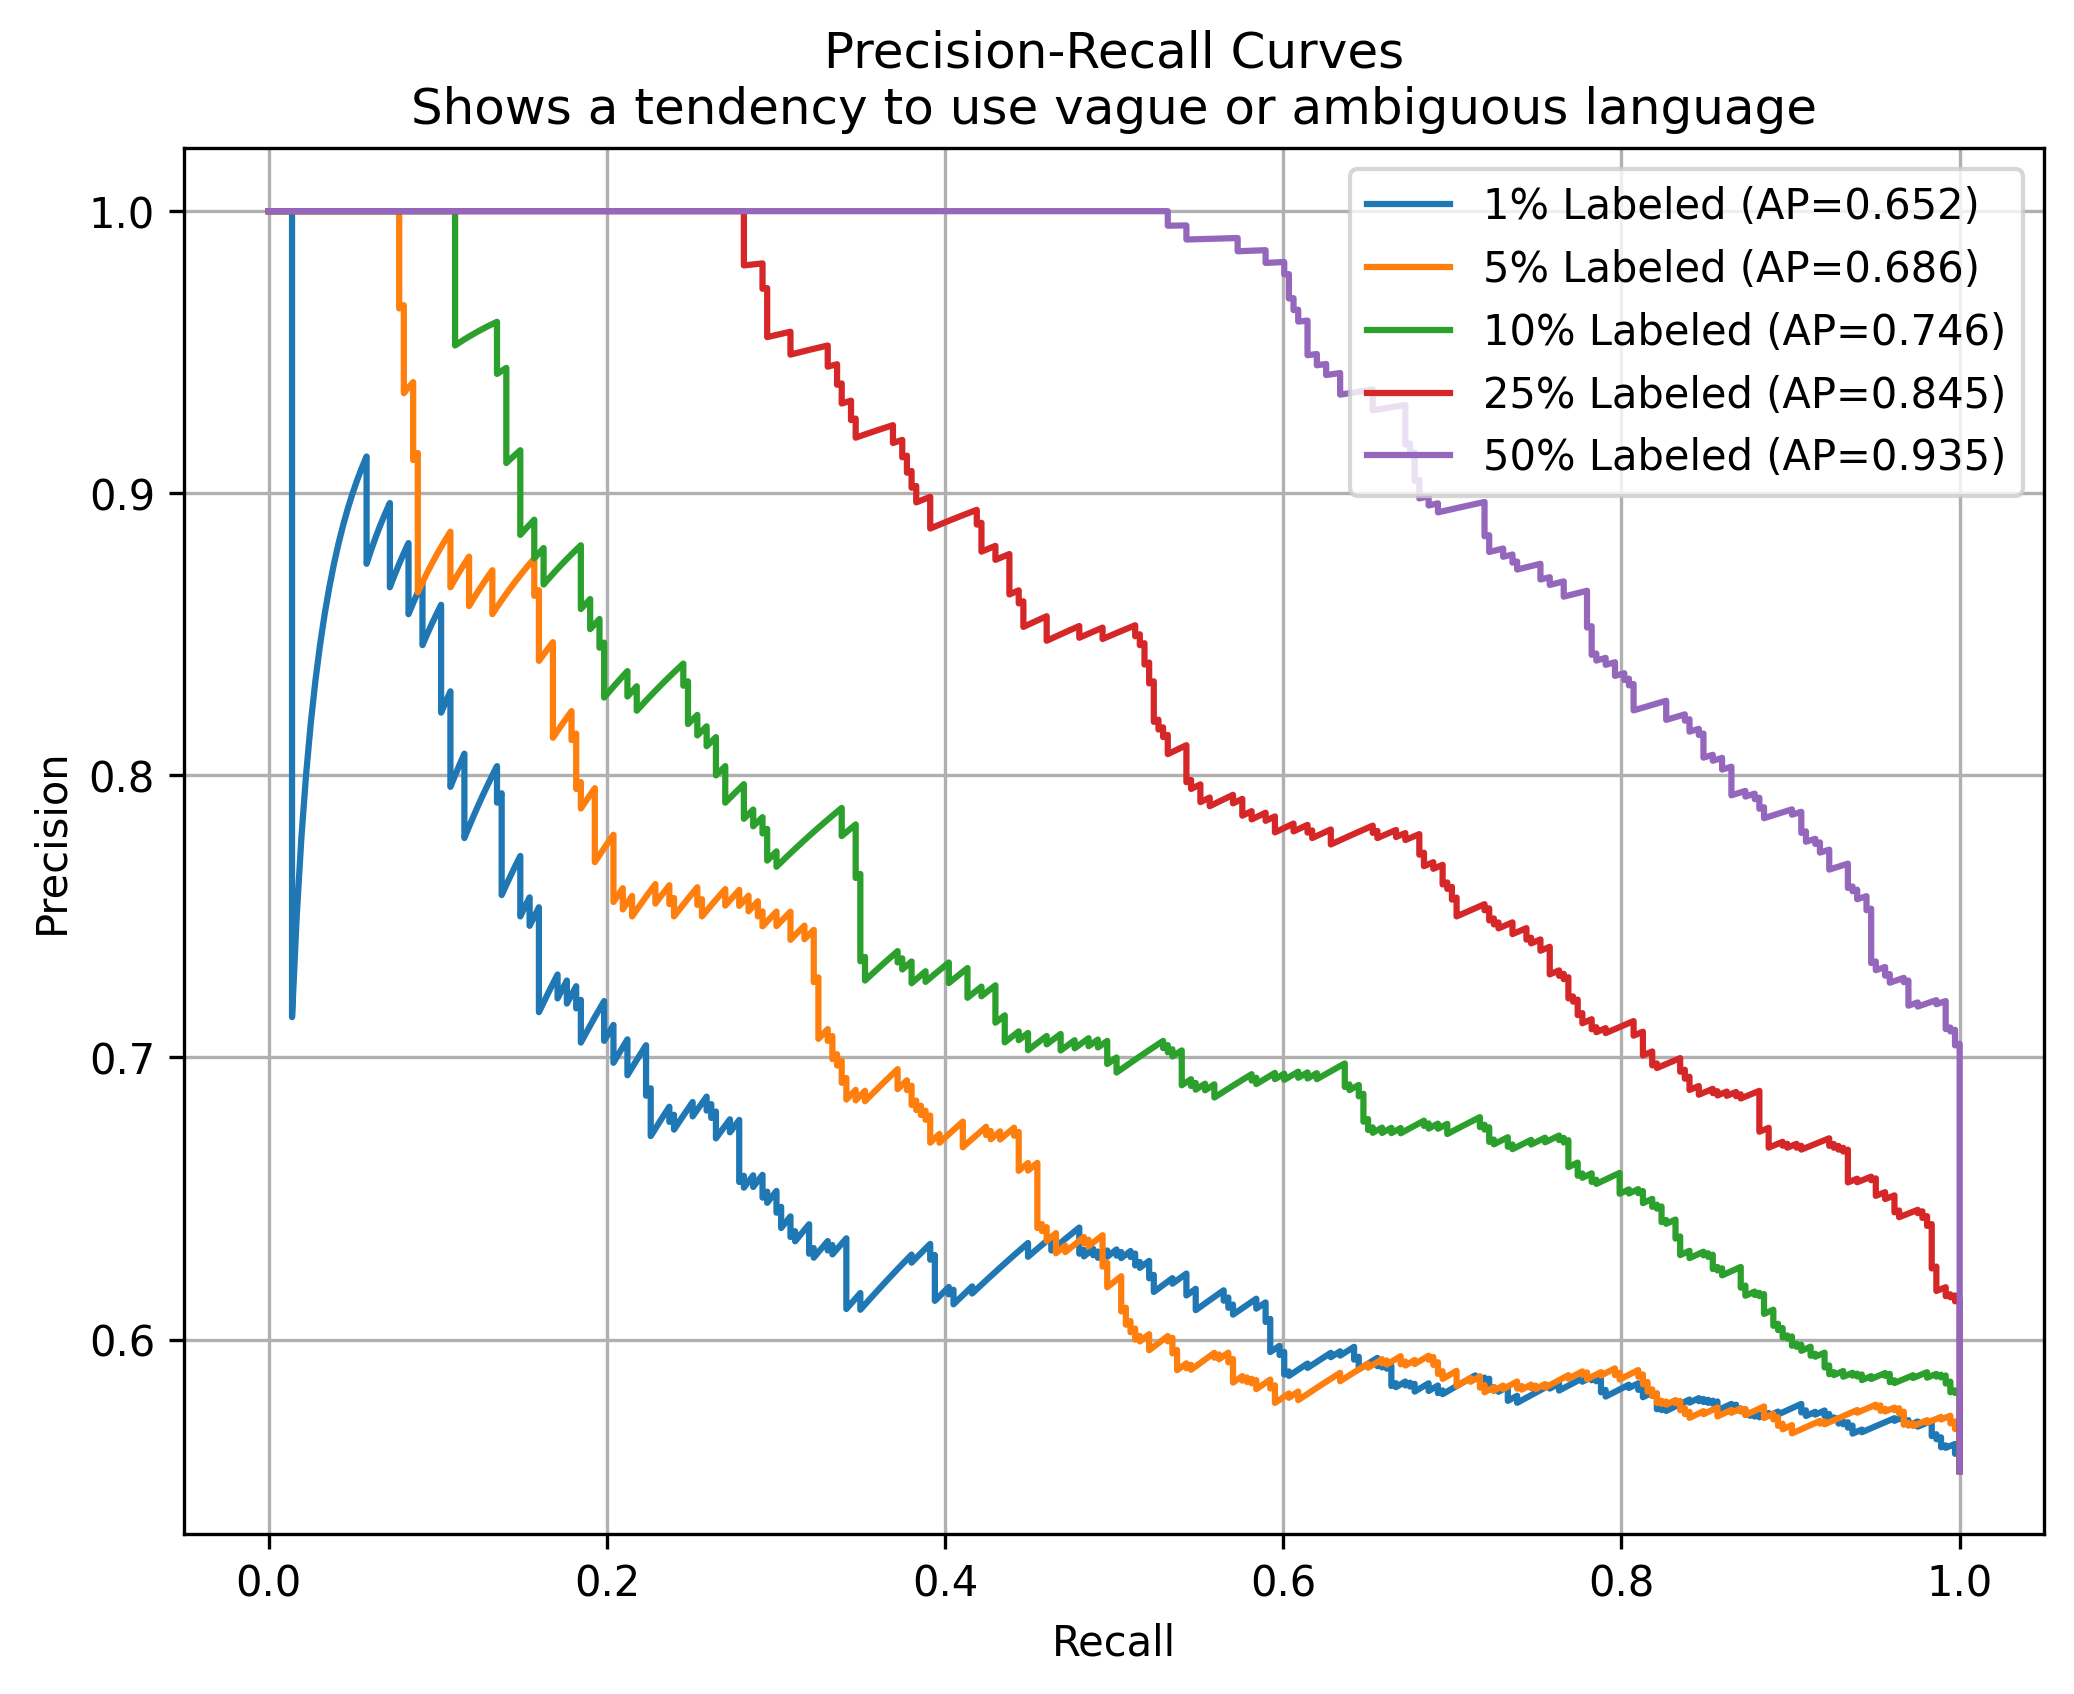
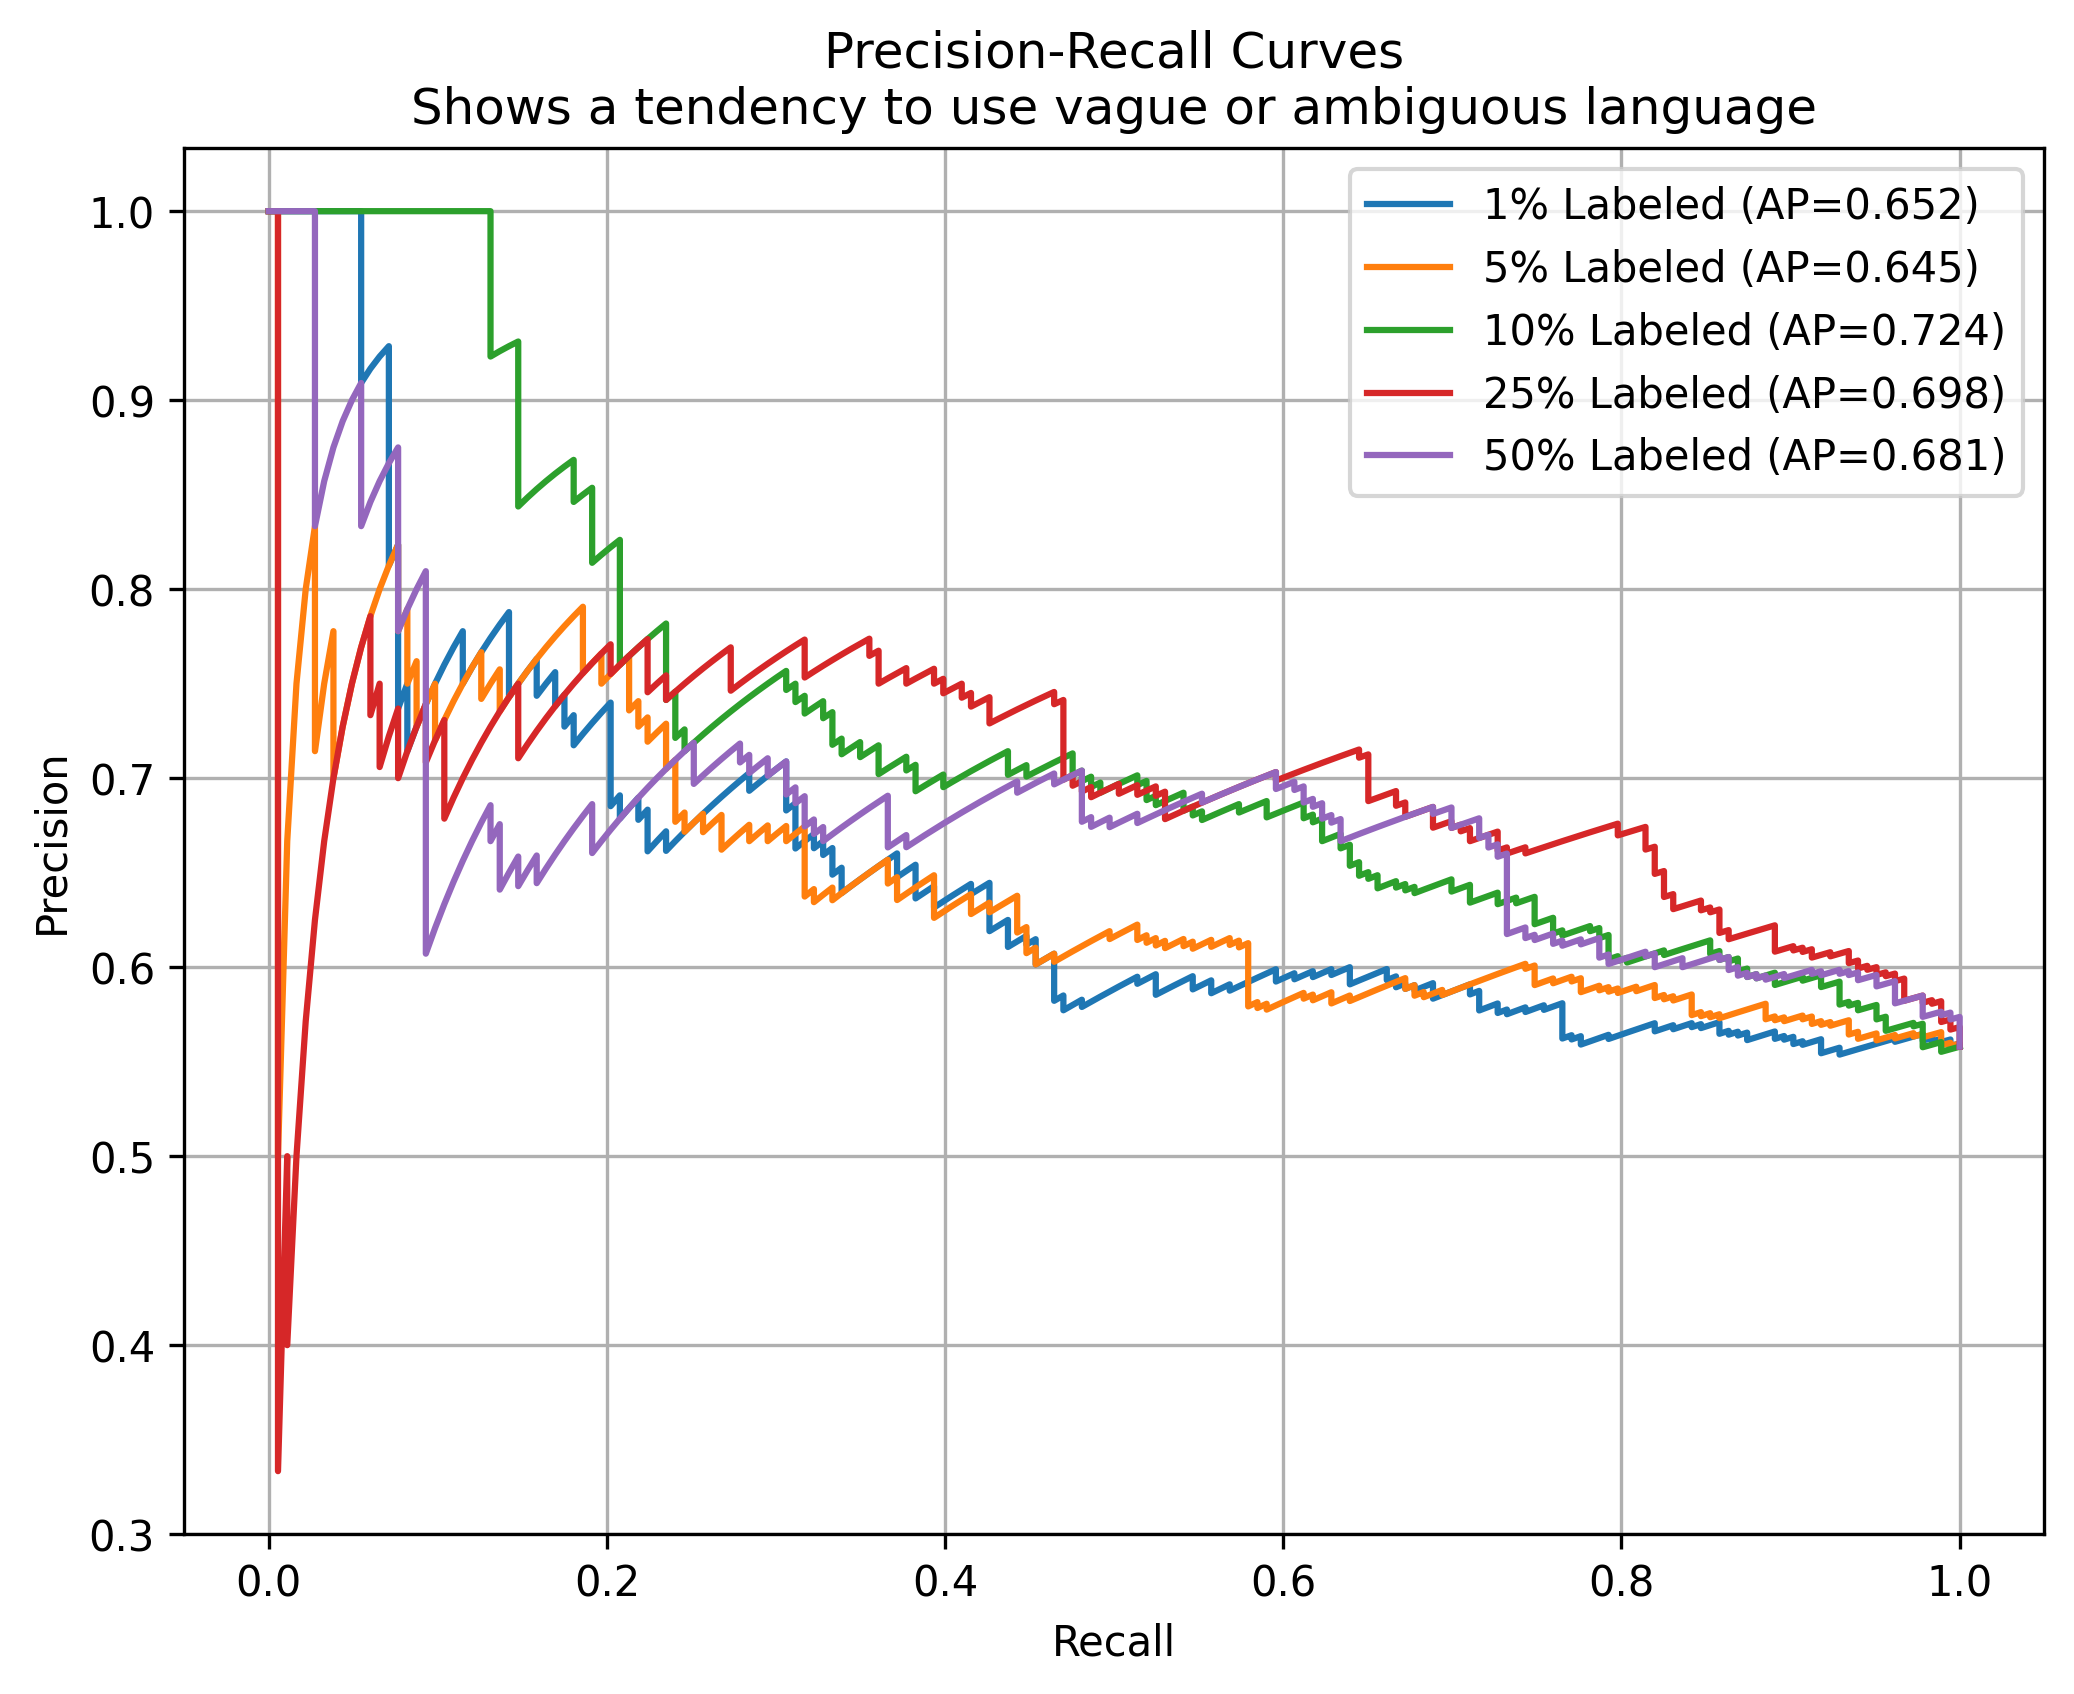
lprop graphs for only half messages

diff --git a/label_progation.py b/label_progation.py
@@ -97,7 +97,7 @@ def prepare_data(hypothesis: dict):
     one_per_indices = set()
     # sets that will be used to track what indexes are used
     while len(fifty_per_indices) <= fifty_per_len:
-        new_index = random.randint(0, len(Y0))
+        new_index = random.randint(0, len(Y0) // 2)
         fifty_per_indices.add(new_index)
         if len(twentyfive_per_indices) <= twentyfive_per_len:
             twentyfive_per_indices.add(new_index)
@@ -163,30 +163,38 @@ if __name__ == '__main__':
 #	fit the model
 #	run it
 #	plot the results
+        half_start = len(Y0) // 2
+        Y0_back = Y0[half_start:]
+
         model.fit(X, Y1)
         Y1_score = model.label_distributions_[:, 1]
-        p1, r1, _ = precision_recall_curve(Y0, Y1_score)
-        avg1 = average_precision_score(Y0, Y1_score)
+        Y1_back = Y1_score[half_start:]
+        p1, r1, _ = precision_recall_curve(Y0_back, Y1_back)
+        avg1 = average_precision_score(Y0_back, Y1_back)
 
         model.fit(X, Y5)
         Y5_score = model.label_distributions_[:, 1]
-        p5, r5, _ = precision_recall_curve(Y0, Y5_score)
-        avg5 = average_precision_score(Y0, Y5_score)
+        Y5_back = Y5_score[half_start:]
+        p5, r5, _ = precision_recall_curve(Y0_back, Y5_back)
+        avg5 = average_precision_score(Y0_back, Y5_back)
 
         model.fit(X, Y10)
         Y10_score = model.label_distributions_[:, 1]
-        p10, r10, _ = precision_recall_curve(Y0, Y10_score)
-        avg10 = average_precision_score(Y0, Y10_score)
+        Y10_back = Y10_score[half_start:]
+        p10, r10, _ = precision_recall_curve(Y0_back, Y10_back)
+        avg10 = average_precision_score(Y0_back, Y10_back)
 
         model.fit(X, Y25)
         Y25_score = model.label_distributions_[:, 1]
-        p25, r25, _ = precision_recall_curve(Y0, Y25_score)
-        avg25 = average_precision_score(Y0, Y25_score)
+        Y25_back = Y25_score[half_start:]
+        p25, r25, _ = precision_recall_curve(Y0_back, Y25_back)
+        avg25 = average_precision_score(Y0_back, Y25_back)
 
         model.fit(X, Y50)
         Y50_score = model.label_distributions_[:, 1]
-        p50, r50, _ = precision_recall_curve(Y0, Y50_score)
-        avg50 = average_precision_score(Y0, Y50_score)
+        Y50_back = Y50_score[half_start:]
+        p50, r50, _ = precision_recall_curve(Y0_back, Y50_back)
+        avg50 = average_precision_score(Y0_back, Y50_back)
 
         plt.figure(figsize=(8, 6))
         plt.plot(r1, p1, label=f"1% Labeled (AP={avg1:.3f})")
